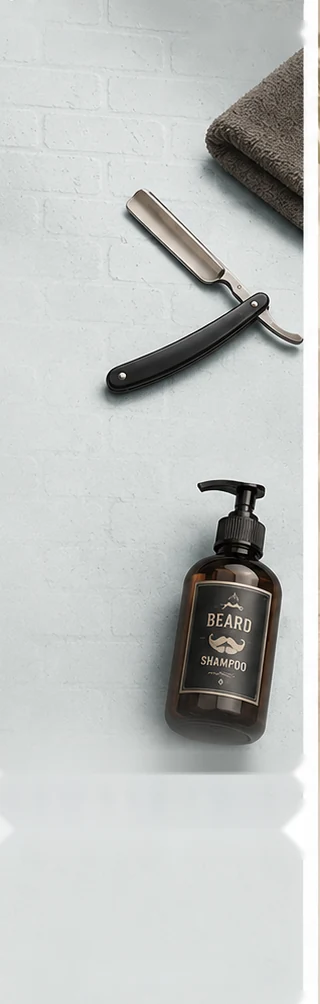
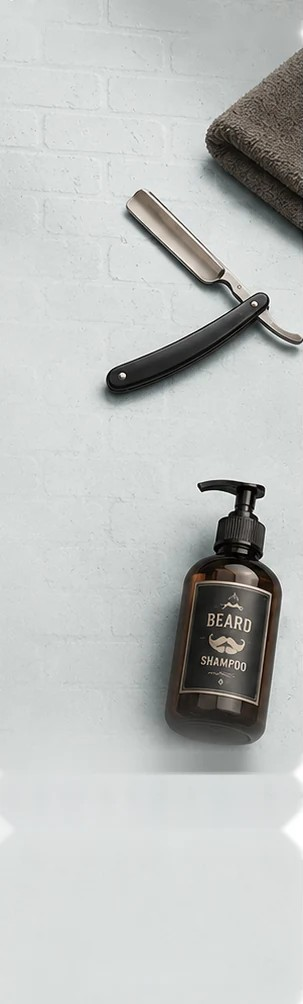
Настройка подписки/перенос в БД/улучшение лимитов в профиле

Changed region(s): [[0.297, 0.0, 1.0, 1.0]]

diff --git a/lib/data/repositories/subscription_repository.dart b/lib/data/repositories/subscription_repository.dart
@@ -16,16 +16,37 @@ class SubscriptionRepository {
         .eq('user_id', _userId)
         .maybeSingle();
 
+    final tier = row == null
+        ? SubscriptionTier.free
+        : subscriptionTierFromString(row['tier'] as String);
+    final limit = await _fetchTierLimit(tier);
+
     if (row == null) {
       return Subscription(
         userId: _userId,
         tier: SubscriptionTier.free,
         requestsUsedThisPeriod: 0,
+        requestLimit: limit,
         periodResetAt: DateTime.now().add(const Duration(days: 30)),
         status: 'active',
       );
     }
-    return Subscription.fromMap(row);
+    return Subscription.fromMap(row, requestLimit: limit);
+  }
+
+  Future<int> _fetchTierLimit(SubscriptionTier tier) async {
+    try {
+      final row = await SupabaseService.client
+          .from(AppConstants.subscriptionTiersTable)
+          .select('request_limit')
+          .eq('tier', tier.name)
+          .maybeSingle();
+
+      final limit = row?['request_limit'] as int?;
+      if (limit != null) return limit;
+    } catch (_) {
+    }
+    return AppConstants.fallbackTierRequestLimits[tier.name] ?? 0;
   }
 
   Future<void> mockUpgrade(SubscriptionTier tier) async {
@@ -36,7 +57,6 @@ class SubscriptionRepository {
   }
 
   bool hasReachedLimit(Subscription subscription) {
-    final limit = AppConstants.tierRequestLimits[subscription.tier.name] ?? 0;
-    return subscription.requestsUsedThisPeriod >= limit;
+    return subscription.hasReachedLimit;
   }
 }

diff --git a/lib/features/chat/widgets/prompt_input_bar.dart b/lib/features/chat/widgets/prompt_input_bar.dart
@@ -7,14 +7,13 @@ import 'package:flutter/material.dart';
 import '../../../core/theme/app_tokens.dart';
 
 const _promptHints = [
-  'Опишите причёску или бороду',
-  'Например: "сделай короткий fade"',
-  'Например: "добавь чёлку и локоны"',
-  'Например: "покрась в пепельный блонд"',
-  'Например: "хочу дерзкий undercut"',
-  'Например: "сделай гладкий боб"',
-  'Например: "афро-кудри и объём"',
-  'Например: "омбре с розовым оттенком"',
+  'сделай короткий fade',
+  'добавь чёлку и локоны',
+  'покрась в пепельный блонд',
+  'хочу дерзкий undercut',
+  'сделай гладкий боб',
+  'афро-кудри и объём',
+  'омбре с розовым оттенком',
 ];
 
 class PromptInputBar extends StatefulWidget {

diff --git a/lib/data/models/subscription.dart b/lib/data/models/subscription.dart
@@ -11,6 +11,7 @@ class Subscription {
   final String userId;
   final SubscriptionTier tier;
   final int requestsUsedThisPeriod;
+  final int requestLimit;
   final DateTime periodResetAt;
   final String status;
 
@@ -18,15 +19,22 @@ class Subscription {
     required this.userId,
     required this.tier,
     required this.requestsUsedThisPeriod,
+    required this.requestLimit,
     required this.periodResetAt,
     required this.status,
   });
 
-  factory Subscription.fromMap(Map<String, dynamic> map) {
+  bool get hasReachedLimit => requestsUsedThisPeriod >= requestLimit;
+
+  factory Subscription.fromMap(
+    Map<String, dynamic> map, {
+    required int requestLimit,
+  }) {
     return Subscription(
       userId: map['user_id'] as String,
       tier: subscriptionTierFromString(map['tier'] as String),
       requestsUsedThisPeriod: map['requests_used_this_period'] as int? ?? 0,
+      requestLimit: requestLimit,
       periodResetAt: DateTime.parse(map['period_reset_at'] as String).toLocal(),
       status: map['status'] as String? ?? 'active',
     );

diff --git a/lib/features/profile/screens/profile_screen.dart b/lib/features/profile/screens/profile_screen.dart
@@ -3,7 +3,6 @@ import 'dart:async';
 import 'package:flutter/material.dart';
 import 'package:flutter_riverpod/flutter_riverpod.dart';
 
-import '../../../core/config/app_constants.dart';
 import '../../../core/theme/app_tokens.dart';
 import '../../../core/utils/error_translator.dart';
 import '../../../data/models/subscription.dart';
@@ -163,7 +162,8 @@ class ProfileScreen extends ConsumerWidget {
                   onTap: () =>
                       Navigator.of(context).pushNamed(AppRoutes.paywall),
                 ),
-                _RequestsRemainingTile(subscription: subscription),
+                if (subscription.tier != SubscriptionTier.free)
+                  _RequestsRemainingTile(subscription: subscription),
               ],
             ),
             loading: () => const ListTile(title: Text('Загрузка тарифа...')),
@@ -301,7 +301,6 @@ class _RequestsRemainingTileState
   @override
   void initState() {
     super.initState();
-    // Пересчитываем текст обратного отсчёта раз в минуту, без похода в сеть.
     _ticker = Timer.periodic(const Duration(minutes: 1), (_) {
       if (mounted) setState(() {});
     });
@@ -376,8 +375,7 @@ class _RequestsRemainingTileState
   @override
   Widget build(BuildContext context) {
     final subscription = widget.subscription;
-    final limit =
-        AppConstants.tierRequestLimits[subscription.tier.name] ?? 1;
+    final limit = subscription.requestLimit.clamp(1, 1 << 30);
     final used = subscription.requestsUsedThisPeriod.clamp(0, limit);
     final percent = (used / limit * 100).round();
     final colors = Theme.of(context).colorScheme;

diff --git a/lib/features/chat/screens/chat_screen.dart b/lib/features/chat/screens/chat_screen.dart
@@ -3,7 +3,6 @@ import 'dart:io';
 import 'package:flutter/material.dart';
 import 'package:flutter_riverpod/flutter_riverpod.dart';
 
-import '../../../core/config/app_constants.dart';
 import '../../../core/theme/app_tokens.dart';
 import '../../../core/utils/error_translator.dart';
 import '../../../data/models/chat_message.dart';
@@ -224,10 +223,7 @@ class _ChatScreenState extends ConsumerState<ChatScreen> {
     final messagesAsync = ref.watch(chatControllerProvider);
     final subscription = ref.watch(subscriptionControllerProvider).valueOrNull;
     final isPro = subscription?.tier != SubscriptionTier.free;
-    final hasReachedLimit =
-        subscription != null &&
-        subscription.requestsUsedThisPeriod >=
-            (AppConstants.tierRequestLimits[subscription.tier.name] ?? 0);
+    final hasReachedLimit = subscription != null && subscription.hasReachedLimit;
 
     return Scaffold(
       drawer: const AppDrawer(),

diff --git a/lib/core/config/app_constants.dart b/lib/core/config/app_constants.dart
@@ -4,6 +4,7 @@ class AppConstants {
   static const String generationRequestsTable = 'generation_requests';
   static const String generationSettingsTable = 'generation_settings';
   static const String subscriptionsTable = 'subscriptions';
+  static const String subscriptionTiersTable = 'subscription_tiers';
   static const String profilesTable = 'profiles';
   static const String favoritePhotosTable = 'favorite_photos';
   static const String bugReportsTable = 'bug_reports';
@@ -14,9 +15,9 @@ class AppConstants {
   static const String cancelGenerationFunction = 'cancel-generation';
   static const String deleteAccountFunction = 'delete-account';
 
-  static const Map<String, int> tierRequestLimits = {
+  static const Map<String, int> fallbackTierRequestLimits = {
     'free': 3,
-    'pro': 3,
+    'pro': 100,
     'max': 1000,
   };
 

diff --git a/lib/features/subscription/screens/paywall_screen.dart b/lib/features/subscription/screens/paywall_screen.dart
@@ -37,7 +37,7 @@ class PaywallScreen extends ConsumerWidget {
               title: 'Pro',
               price: '299 ₽/мес',
               features: const [
-                '100 запросов в месяц',
+                'Расширенный лимит генераций',
                 'Приоритетная генерация',
                 'HD-качество результата',
               ],
@@ -51,7 +51,7 @@ class PaywallScreen extends ConsumerWidget {
               title: 'Max',
               price: '799 ₽/мес',
               features: const [
-                '1000+ запросов в месяц',
+                'Максимальный лимит генераций',
                 'Максимальный приоритет',
                 'Ранний доступ к новым стилям',
               ],